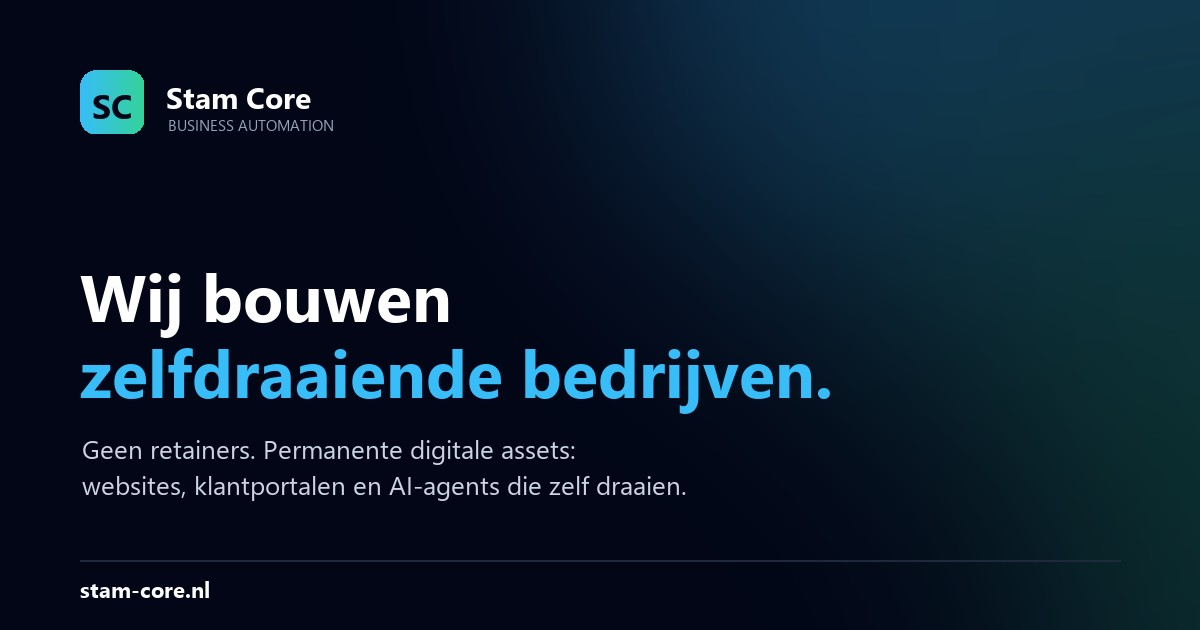
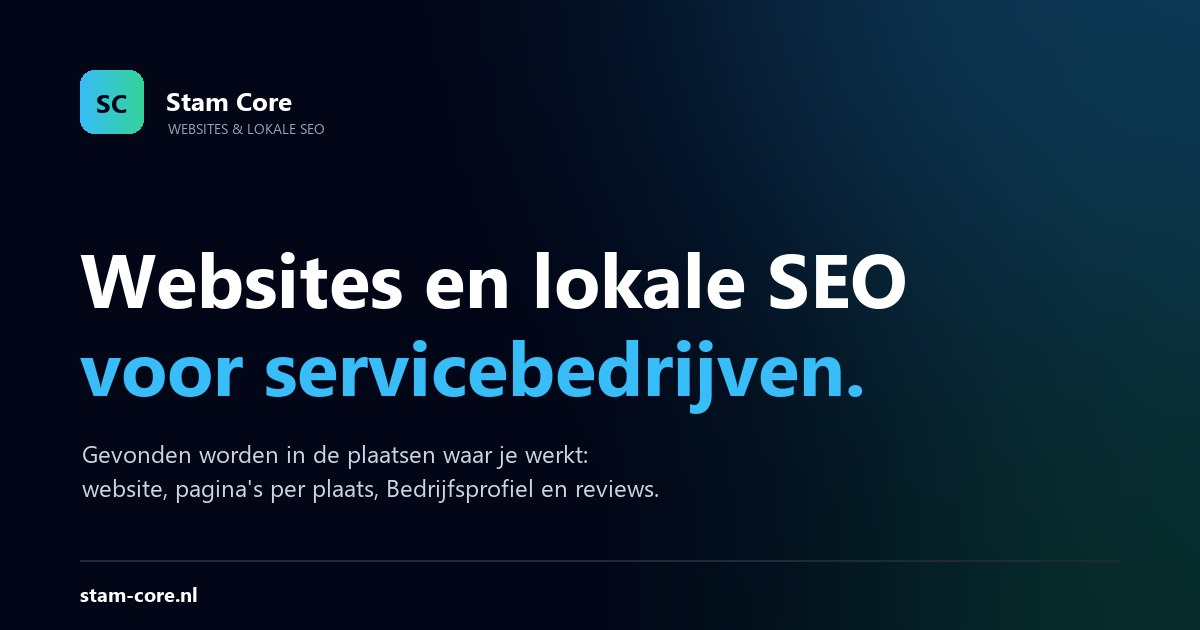
seo: review Tilburg verwerkt
- Geen reviewverzoeken namens klanten: teksten op home, /prijzen,
  /website-glazenwasser en /seo-glazenwasser vervangen door reviewlink,
  QR-code en kant-en-klaar appje
- Tilburg: bedrijventerreinen zonder getal, LocHal sinds 2019, inwoners
  per stadsdeel precies; bronnen per feit in tilburg.json
- FAQ looptijd-zin vervangen door het maandrapport
- OG-afbeelding per stad (seo/scripts/og.py) en nieuwe og-default.jpg
- Regels in SEO-PLAN.md §1 en seo/README.md; check: verboden frasen,
  bronnen verplicht bij getallen, OG-afbeelding verplicht

diff --git a/website-glazenwasser-tilburg.html b/website-glazenwasser-tilburg.html
@@ -18,13 +18,13 @@
 <meta property="og:type" content="website">
 <meta property="og:url" content="https://stam-core.nl/website-glazenwasser-tilburg">
 <meta property="og:locale" content="nl_NL">
-<meta property="og:image" content="https://stam-core.nl/img/og-default.jpg">
+<meta property="og:image" content="https://stam-core.nl/img/og/glazenwasser-tilburg.jpg">
 <meta property="og:image:width" content="1200">
 <meta property="og:image:height" content="630">
 <meta name="twitter:card" content="summary_large_image">
 <meta name="twitter:title" content="Website glazenwasser Tilburg | Stam Core">
 <meta name="twitter:description" content="Glazenwasser in Tilburg? Zo staan de bedrijven bovenaan in Google Maps ervoor, en zo vind je klanten in de Reeshof, Oud-Zuid en Berkel-Enschot.">
-<meta name="twitter:image" content="https://stam-core.nl/img/og-default.jpg">
+<meta name="twitter:image" content="https://stam-core.nl/img/og/glazenwasser-tilburg.jpg">
 
 <script type="application/ld+json">
 {
@@ -241,7 +241,7 @@
     <div class="mx-auto mt-6 max-w-4xl text-center">
       <h1 class="mt-6 font-display text-4xl font-bold leading-[1.05] tracking-tight text-white sm:text-6xl">Glazenwasser in Tilburg? Zo vind je klanten in jouw wijken</h1>
       <div class="mx-auto mt-7 max-w-2xl space-y-4 text-left text-lg leading-relaxed text-slate-300 sm:text-center">
-        <p>Tilburg doe je niet in één ronde. Oud-Zuid, de Reeshof en Oud-Noord hebben elk tussen de 35.000 en 44.000 inwoners, en daarnaast horen Berkel-Enschot, Udenhout en Biezenmortel bij de gemeente. Elk deel vraagt een eigen aanpak.</p>
+        <p>Tilburg doe je niet in één ronde. Oud-Zuid en de Reeshof hebben elk bijna 44.000 inwoners, Oud-Noord bijna 35.000, en daarnaast horen Berkel-Enschot, Udenhout en Biezenmortel bij de gemeente. Elk deel vraagt een eigen aanpak.</p>
         <p>Hieronder zie je hoe de glazenwassers bovenaan in Google Maps er in Tilburg voor staan, en waar de ruimte zit voor jouw bedrijf.</p>
       </div>
       <div class="mt-10 flex flex-col items-center justify-center gap-4 sm:flex-row">
@@ -320,10 +320,10 @@
     <span class="reveal text-sm font-semibold uppercase tracking-[0.18em] text-electric-400">De stad</span>
     <h2 class="reveal mt-4 font-display text-3xl font-bold tracking-tight text-white sm:text-4xl">Wat Tilburg anders maakt</h2>
     <div class="reveal mt-8 space-y-4 text-lg leading-relaxed text-slate-300">
-      <p>Tilburg was in de negentiende eeuw een wolstad: in 1871 stonden er 125 wollenstoffenfabrieken. Het textiel is grotendeels verdwenen, de stad is gebleven en gegroeid. Drie stadsdelen hebben nu elk meer inwoners dan veel Brabantse gemeenten, dus je kunt hier een volle week rijden zonder de stad uit te gaan.</p>
-        <p>Daarnaast is er de nieuwe kant van de stad. In de Spoorzone, het voormalige NS-werkplaatsterrein achter het station, kregen hallen zoals de LocHal sinds 2011 een nieuwe functie. Woontoren Westpoint telt 47 verdiepingen. Hoogbouw en grote glaspartijen vragen om ander materiaal, zoals osmose en een lange telescoopsteel, en vaak heb je dan te maken met een VvE of beheerder in plaats van een bewoner.</p>
+      <p>Tilburg was in de negentiende eeuw een wolstad: in 1871 stonden er 125 wollenstoffenfabrieken. Het textiel is grotendeels verdwenen, maar de stad is groot gebleven. Je kunt hier een volle week rondes rijden zonder de gemeente uit te gaan.</p>
+        <p>Daarnaast is er de nieuwe kant van de stad. De Spoorzone, het voormalige NS-werkplaatsterrein ten noorden van het station, ging in 2011 open voor publiek. In de LocHal, een locomotievenhal uit 1932, zit sinds januari 2019 de bibliotheek. Woontoren Westpoint telt 47 verdiepingen. Hoogbouw en grote glaspartijen vragen om ander materiaal, zoals osmose en een lange telescoopsteel, en vaak heb je dan te maken met een VvE of beheerder in plaats van een bewoner.</p>
         <p>Tilburg is ook een studentenstad, met Tilburg University, Fontys en Avans. Waar veel verhuurd wordt, zijn verhuurders en beheerders een klantgroep, niet alleen de bewoners.</p>
-        <p>En dan de bedrijventerreinen: op Kraaiven, Loven en Vossenberg zitten samen zo'n 7.600 bedrijven. Daar liggen zakelijke rondes met kantoorgevels, showrooms en bedrijfshallen.</p>
+        <p>En dan de bedrijventerreinen: op Kraaiven, Loven en Vossenberg zitten honderden bedrijven. Daar liggen zakelijke rondes met kantoorgevels, showrooms en bedrijfshallen.</p>
         <p>Voor je website betekent dat: een pagina voor particulieren, een voor zakelijk en VvE's, en per dienst (ramen, zonnepanelen, dakgoten) duidelijk in welke delen van Tilburg je werkt.</p>
     </div>
   </div>

diff --git a/seo-glazenwasser.html b/seo-glazenwasser.html
@@ -111,7 +111,7 @@
           "name": "Hoe lang duurt het voordat ik iets merk?",
           "acceptedAnswer": {
             "@type": "Answer",
-            "text": "Een goed ingericht profiel en de eerste pagina's kunnen binnen een paar weken iets doen, maar reken op enkele maanden voordat je het structureel terugziet in aanvragen. Daarom is de minimale looptijd 3 maanden."
+            "text": "Een goed ingericht profiel en de eerste pagina's kunnen binnen een paar weken iets doen, maar reken op enkele maanden voordat je het structureel terugziet in aanvragen. Daarom laat het maandrapport vanaf maand 1 zien wat er gebouwd is en wat er beweegt."
           }
         },
         {
@@ -321,7 +321,7 @@
       <li class="flex gap-3 rounded-xl border border-white/5 bg-slate-900/40 px-5 py-4"><span class="text-emerald-400">&check;</span><span class="text-slate-300">Reageren op elke review, ook op de korte. Nieuwe klanten lezen dat mee.</span></li>
       <li class="flex gap-3 rounded-xl border border-white/5 bg-slate-900/40 px-5 py-4"><span class="text-emerald-400">&check;</span><span class="text-slate-300">Begin bij vaste klanten die al jaren tevreden zijn. Die zeggen het makkelijkst ja en schrijven de beste reviews.</span></li>
     </ul>
-    <p class="reveal mt-6 text-lg leading-relaxed text-slate-300">Bij de website krijg je één vaste review-link met QR-code. In het lokale-SEO-pakket stuur ik daarnaast de reviewverzoeken naar je klanten, zodat het niet afhangt van of jij er na een lange dag nog aan denkt.</p>
+    <p class="reveal mt-6 text-lg leading-relaxed text-slate-300">Bij de website krijg je één vaste review-link met QR-code. Je krijgt er ook een kant-en-klaar appje bij met je review-link, zodat vragen om een review na de ronde één tik is.</p>
   </div>
 </section>
 
@@ -351,7 +351,7 @@
           <li class="flex gap-3"><span class="text-emerald-400">+</span><span>Tot 5 nieuwe pagina's per dienst en plaats, met tekst die echt over die plaats gaat</span></li>
           <li class="flex gap-3"><span class="text-emerald-400">+</span><span>Posts op je Bedrijfsprofiel</span></li>
           <li class="flex gap-3"><span class="text-emerald-400">+</span><span>Je Bedrijfsprofiel bijgehouden: diensten, foto's, werkgebied</span></li>
-          <li class="flex gap-3"><span class="text-emerald-400">+</span><span>Reviewverzoeken naar je klanten</span></li>
+          <li class="flex gap-3"><span class="text-emerald-400">+</span><span>Reviewlink, QR-code en een kant-en-klaar appje dat je na de ronde zelf verstuurt</span></li>
           <li class="flex gap-3"><span class="text-emerald-400">+</span><span>Een maandrapport: wat er gedaan is en hoe je ervoor staat</span></li>
         </ul>
       </div>
@@ -398,7 +398,7 @@
       </div>
       <div class="reveal rounded-2xl border border-white/5 bg-slate-900/40 p-6">
         <h3 class="font-display text-lg font-semibold text-white">Hoe lang duurt het voordat ik iets merk?</h3>
-        <p class="mt-2 text-slate-400">Een goed ingericht profiel en de eerste pagina's kunnen binnen een paar weken iets doen, maar reken op enkele maanden voordat je het structureel terugziet in aanvragen. Daarom is de minimale looptijd 3 maanden.</p>
+        <p class="mt-2 text-slate-400">Een goed ingericht profiel en de eerste pagina's kunnen binnen een paar weken iets doen, maar reken op enkele maanden voordat je het structureel terugziet in aanvragen. Daarom laat het maandrapport vanaf maand 1 zien wat er gebouwd is en wat er beweegt.</p>
       </div>
       <div class="reveal rounded-2xl border border-white/5 bg-slate-900/40 p-6">
         <h3 class="font-display text-lg font-semibold text-white">Ik heb al een website. Kan lokale SEO daar ook op?</h3>

diff --git a/prijzen.html b/prijzen.html
@@ -56,7 +56,7 @@
           "@type": "Offer",
           "@id": "https://stam-core.nl/prijzen#lokale-seo",
           "name": "Lokale SEO",
-          "description": "Doorlopend: nieuwe pagina's per dienst en plaats, posts en onderhoud van het Google Bedrijfsprofiel, reviewverzoeken en een maandrapport. Minimaal 3 maanden, daarna maandelijks opzegbaar.",
+          "description": "Doorlopend: nieuwe pagina's per dienst en plaats, posts en onderhoud van het Google Bedrijfsprofiel, een reviewlink met QR-code en een kant-en-klaar appje, en een maandrapport. Minimaal 3 maanden, daarna maandelijks opzegbaar.",
           "priceCurrency": "EUR",
           "price": "199",
           "priceSpecification": { "@type": "UnitPriceSpecification", "price": "199", "priceCurrency": "EUR", "unitCode": "MON", "unitText": "per maand" },
@@ -241,7 +241,7 @@
           <li class="flex gap-3"><span class="text-emerald-400">+</span><span><strong class="text-white">Nieuwe lokale pagina's</strong> per dienst &times; plaats — 5 per maand</span></li>
           <li class="flex gap-3"><span class="text-emerald-400">+</span><span><strong class="text-white">Posts op je Bedrijfsprofiel</strong> — zodat je profiel actief blijft.</span></li>
           <li class="flex gap-3"><span class="text-emerald-400">+</span><span><strong class="text-white">Bedrijfsprofiel-onderhoud</strong> — diensten, foto's, werkgebied en openingstijden actueel.</span></li>
-          <li class="flex gap-3"><span class="text-emerald-400">+</span><span><strong class="text-white">Reviewverzoeken</strong> — je klanten krijgen een verzoek om een review achter te laten.</span></li>
+          <li class="flex gap-3"><span class="text-emerald-400">+</span><span><strong class="text-white">Reviewlink, QR-code en een kant-en-klaar appje</strong> dat je na de ronde zelf verstuurt.</span></li>
           <li class="flex gap-3"><span class="text-emerald-400">+</span><span><strong class="text-white">Maandrapport</strong> — wat er gebouwd is, hoe je ervoor staat en wat het oplevert.</span></li>
         </ul>
       </div>
@@ -271,7 +271,7 @@
     <div class="reveal mt-6 space-y-4 text-lg leading-relaxed text-slate-300">
       <p>Je kent ze wel: bureaus die elke maand factureren voor een paar lege posts en wat klikjes via Google Ads. Stop je met betalen, dan is er niets meer. Je hebt al die tijd gehuurd.</p>
       <p>Bij Stam Core werkt het andersom. <strong class="text-white">Het fundament is van jou:</strong> je website, je domein, je teksten en alle pagina's. Ook als je stopt.</p>
-      <p><strong class="text-white">Het maandbedrag is groeiwerk.</strong> Elke maand komen er nieuwe pagina's bij voor de diensten en plaatsen waar je gevonden wilt worden, houden we je Bedrijfsprofiel bij, vragen we je klanten om reviews en krijg je een rapport van wat er is gebeurd. Wat we bouwen blijft staan — dus elke maand staat er meer.</p>
+      <p><strong class="text-white">Het maandbedrag is groeiwerk.</strong> Elke maand komen er nieuwe pagina's bij voor de diensten en plaatsen waar je gevonden wilt worden, houden we je Bedrijfsprofiel bij, krijg je een kant-en-klaar appje om zelf om reviews te vragen en krijg je een rapport van wat er is gebeurd. Wat we bouwen blijft staan — dus elke maand staat er meer.</p>
     </div>
   </div>
 </section>

diff --git a/seo/templates/seo-pijler.html b/seo/templates/seo-pijler.html
@@ -141,7 +141,7 @@
       <li class="flex gap-3 rounded-xl border border-white/5 bg-slate-900/40 px-5 py-4"><span class="text-emerald-400">&check;</span><span class="text-slate-300">Reageren op elke review, ook op de korte. Nieuwe klanten lezen dat mee.</span></li>
       <li class="flex gap-3 rounded-xl border border-white/5 bg-slate-900/40 px-5 py-4"><span class="text-emerald-400">&check;</span><span class="text-slate-300">Begin bij vaste klanten die al jaren tevreden zijn. Die zeggen het makkelijkst ja en schrijven de beste reviews.</span></li>
     </ul>
-    <p class="reveal mt-6 text-lg leading-relaxed text-slate-300">Bij de website krijg je één vaste review-link met QR-code. In het lokale-SEO-pakket stuur ik daarnaast de reviewverzoeken naar je klanten, zodat het niet afhangt van of jij er na een lange dag nog aan denkt.</p>
+    <p class="reveal mt-6 text-lg leading-relaxed text-slate-300">Bij de website krijg je één vaste review-link met QR-code. Je krijgt er ook een kant-en-klaar appje bij met je review-link, zodat vragen om een review na de ronde één tik is.</p>
   </div>
 </section>
 
@@ -171,7 +171,7 @@
           <li class="flex gap-3"><span class="text-emerald-400">+</span><span>{{seoPaginasHoofdletter}} nieuwe pagina's per dienst en plaats, met tekst die echt over die plaats gaat</span></li>
           <li class="flex gap-3"><span class="text-emerald-400">+</span><span>Posts op je Bedrijfsprofiel</span></li>
           <li class="flex gap-3"><span class="text-emerald-400">+</span><span>Je Bedrijfsprofiel bijgehouden: diensten, foto's, werkgebied</span></li>
-          <li class="flex gap-3"><span class="text-emerald-400">+</span><span>Reviewverzoeken naar je klanten</span></li>
+          <li class="flex gap-3"><span class="text-emerald-400">+</span><span>Reviewlink, QR-code en een kant-en-klaar appje dat je na de ronde zelf verstuurt</span></li>
           <li class="flex gap-3"><span class="text-emerald-400">+</span><span>Een maandrapport: wat er gedaan is en hoe je ervoor staat</span></li>
         </ul>
       </div>

diff --git a/index.html b/index.html
@@ -329,7 +329,7 @@
         </div>
         <h3 class="mt-6 font-display text-xl font-bold text-white">Reviewmotor</h3>
         <p class="mt-1 text-sm font-medium text-emerald-400">Vertrouwen dat groeit</p>
-        <p class="mt-3 flex-1 text-slate-400">Na elke klus een reviewverzoek via een vaste link of QR-code. Reviews zijn het eerste wat een klant in Maps ziet — en ze tellen mee in hoe Google je toont.</p>
+        <p class="mt-3 flex-1 text-slate-400">Na elke klus vraag jij om een review, via een vaste link of QR-code. Reviews zijn het eerste wat een klant in Maps ziet — en ze tellen mee in hoe Google je toont.</p>
       </li>
     </ol>
   </div>
@@ -377,7 +377,7 @@
           <li class="flex gap-3"><span class="text-emerald-400">+</span><span>Tot 5 nieuwe pagina's per dienst &times; plaats</span></li>
           <li class="flex gap-3"><span class="text-emerald-400">+</span><span>Posts op je Bedrijfsprofiel</span></li>
           <li class="flex gap-3"><span class="text-emerald-400">+</span><span>Bedrijfsprofiel bijgehouden: diensten, foto's, werkgebied</span></li>
-          <li class="flex gap-3"><span class="text-emerald-400">+</span><span>Reviewverzoeken naar je klanten</span></li>
+          <li class="flex gap-3"><span class="text-emerald-400">+</span><span>Reviewlink, QR-code en een kant-en-klaar appje dat je na de ronde zelf verstuurt</span></li>
           <li class="flex gap-3"><span class="text-emerald-400">+</span><span>Maandrapport: wat er gebouwd is en wat het oplevert</span></li>
         </ul>
       </div>

diff --git a/website-glazenwasser.html b/website-glazenwasser.html
@@ -322,7 +322,7 @@
         <h3 class="font-display text-2xl font-bold text-white">Lokale SEO</h3>
         <p class="mt-3 font-display text-4xl font-bold text-white">€199 <span class="text-base font-semibold text-slate-400">per maand</span></p>
         <p class="mt-1 text-slate-300">na 3 maanden maandelijks opzegbaar</p>
-        <p class="mt-4 text-slate-200">Elke maand tot 5 nieuwe pagina's voor de plaatsen en diensten waar je wilt groeien, posts en onderhoud op je Bedrijfsprofiel, reviewverzoeken en een maandrapport.</p>
+        <p class="mt-4 text-slate-200">Elke maand tot 5 nieuwe pagina's voor de plaatsen en diensten waar je wilt groeien, posts en onderhoud op je Bedrijfsprofiel, een reviewlink met QR-code en een kant-en-klaar appje, en een maandrapport.</p>
         <a href="/seo-glazenwasser" class="mt-5 inline-flex items-center gap-1 text-sm font-semibold text-electric-400 transition hover:gap-2 hover:text-white">Hoe lokale SEO voor glazenwassers werkt &rarr;</a>
       </div>
     </div>

diff --git a/seo/scripts/og.py b/seo/scripts/og.py
@@ -1,0 +1,95 @@
+"""OG-afbeeldingen (1200x630) in de huisstijl, met Pillow.
+
+  python seo/scripts/og.py                  -> img/og-default.jpg + een afbeelding per stad in seo/cities/
+  python seo/scripts/og.py tilburg eindhoven -> alleen deze steden
+
+Per stad: img/og/{niche}-{slug}.jpg met "Glazenwasser in {Stad} — Maps-scan".
+build.mjs roept dit script zelf aan als de afbeelding van een stad ontbreekt.
+Lettertype: Segoe UI (Windows), net als de eerdere og-default.jpg.
+"""
+import json
+import sys
+from pathlib import Path
+
+from PIL import Image, ImageDraw, ImageFilter, ImageFont
+
+ROOT = Path(__file__).resolve().parents[2]
+W, H = 1200, 630
+FONTS = Path("C:/Windows/Fonts")
+BG = (2, 6, 23)            # #020617
+WHITE = (255, 255, 255)
+ELECTRIC = (56, 189, 248)  # electric-400
+EMERALD = (52, 211, 153)   # emerald-400
+MUTED = (203, 213, 225)    # slate-300
+DIM = (148, 163, 184)      # slate-400
+
+
+def font(name, size):
+    return ImageFont.truetype(str(FONTS / name), size)
+
+
+def base():
+    img = Image.new("RGB", (W, H), BG)
+    glow = Image.new("RGB", (W, H), BG)
+    g = ImageDraw.Draw(glow)
+    g.ellipse((700, -350, 1500, 350), fill=(14, 60, 90))
+    g.ellipse((850, 300, 1450, 800), fill=(8, 50, 45))
+    img = Image.blend(img, glow.filter(ImageFilter.GaussianBlur(160)), 0.9)
+    d = ImageDraw.Draw(img)
+    # Logo: afgerond vierkant met verloop elektrisch -> smaragd
+    logo = Image.new("RGB", (64, 64))
+    ld = ImageDraw.Draw(logo)
+    for i in range(64):
+        t = i / 63
+        ld.line([(i, 0), (i, 63)], fill=tuple(int(ELECTRIC[k] + (EMERALD[k] - ELECTRIC[k]) * t) for k in range(3)))
+    mask = Image.new("L", (64, 64), 0)
+    ImageDraw.Draw(mask).rounded_rectangle((0, 0, 63, 63), radius=14, fill=255)
+    img.paste(logo, (80, 70), mask)
+    d.text((112, 102), "SC", font=font("segoeuib.ttf", 26), fill=BG, anchor="mm")
+    d.text((166, 82), "Stam Core", font=font("segoeuib.ttf", 26), fill=WHITE)
+    d.text((168, 118), "WEBSITES & LOKALE SEO", font=font("segoeui.ttf", 14), fill=DIM)
+    d.line([(80, 560), (1120, 560)], fill=(30, 41, 59), width=2)
+    d.text((80, 580), "stam-core.nl", font=font("segoeuib.ttf", 20), fill=WHITE)
+    return img, d
+
+
+def fit(d, text, name, start, max_w):
+    size = start
+    while size > 40 and d.textlength(text, font=font(name, size)) > max_w:
+        size -= 2
+    return font(name, size)
+
+
+def render(line1, line2, sub, out):
+    img, d = base()
+    f1 = fit(d, line1, "segoeuib.ttf", 76, 1040)
+    f2 = fit(d, line2, "segoeuib.ttf", 76, 1040)
+    top = 225
+    d.text((80, top), line1, font=f1, fill=WHITE)
+    d.text((80, top + f1.size + 12), line2, font=f2, fill=ELECTRIC)
+    y = top + f1.size + 12 + f2.size + 48
+    for i, s in enumerate(sub):
+        d.text((82, y + i * 34), s, font=font("segoeui.ttf", 24), fill=MUTED)
+    out.parent.mkdir(parents=True, exist_ok=True)
+    img.save(out, "JPEG", quality=88, optimize=True, progressive=True)
+    print(f"  og: {out.relative_to(ROOT).as_posix()}")
+
+
+def main(slugs):
+    if not slugs:
+        render("Websites en lokale SEO", "voor servicebedrijven.",
+               ["Gevonden worden in de plaatsen waar je werkt:", "website, pagina's per plaats, Bedrijfsprofiel en reviews."],
+               ROOT / "img" / "og-default.jpg")
+    for f in sorted((ROOT / "seo" / "cities").glob("*.json")):
+        c = json.loads(f.read_text(encoding="utf-8"))
+        if slugs and c["slug"] not in slugs:
+            continue
+        niche = json.loads((ROOT / "seo" / "niches" / f"{c['niche']}.json").read_text(encoding="utf-8"))
+        word = niche["enkelvoud"].capitalize()
+        render(f"{word} in {c['stad']}", "— Maps-scan",
+               [f"Zo staan de {niche['meervoud']} bovenaan in Google Maps ervoor,", "en waar de ruimte zit voor jouw bedrijf."],
+               ROOT / "img" / "og" / f"{c['niche']}-{c['slug']}.jpg")
+
+
+if __name__ == "__main__":
+    main(sys.argv[1:])

diff --git a/seo/README.md b/seo/README.md
@@ -92,10 +92,17 @@ Markdown: `##`/`###`, alinea's, `-` lijsten, `1.` stappen, `- [ ]` checklist, `*
 
 Let op: `_redirects` stuurt `/kennis` en `/kennis/` (alleen die twee) tijdelijk door naar `/`. Artikelen op `/kennis/{slug}` werken gewoon.
 
+## Vaste regels
+
+- **Stam Core verstuurt nooit zelf reviewverzoeken naar klanten van klanten; de klant verstuurt ze zelf.** Wij leveren een reviewlink, QR-code en een kant-en-klaar appje. De check faalt op "reviewverzoeken naar je klanten", "stuur ik de reviewverzoeken" en "vragen we je klanten om reviews".
+- **Elk getal en elk historisch of feitelijk gegeven in een stadspagina heeft een bron in het JSON-bestand van die stad**, als `{ "feit": "…", "bron": "https://…" }` in `bronnen`. De check faalt als een stadspagina getallen bevat terwijl `bronnen` leeg is. Een script ziet niet of elk feit gedekt is: noteer per feit een bron, en laat weg wat je niet kunt verifiëren.
+- **OG-afbeelding per stad:** `img/og/{niche}-{slug}.jpg` (1200×630), gemaakt door `seo/scripts/og.py` (Python + Pillow, lettertype Segoe UI). `seo:build` maakt hem aan als hij ontbreekt; de check faalt zonder. `python seo/scripts/og.py` zonder argumenten maakt ook `img/og-default.jpg` opnieuw.
+
 ## Review-afspraken
 
 Wat Jeannot bij reviews heeft besloten. Dit geldt voor alle volgende pagina's.
 
 - **2026-10-24:** `/seo-glazenwasser` en Tilburg zonder wijzigingen goedgekeurd. De opbouw en toon van [`cities/tilburg.json`](cities/tilburg.json) zijn het template voor alle volgende stadspagina's. Tilburg gaat pas live zodra `scans/tilburg.csv` er is.
+- **2026-10-24 (review Jeannot):** reviewverzoek-teksten site-breed vervangen door "reviewlink, QR-code en kant-en-klaar appje"; Tilburg-feiten gecorrigeerd met bronnen (bedrijventerreinen zonder getal, LocHal sinds 2019); looptijd-zin in de FAQ vervangen door het maandrapport; OG-afbeelding per stad.
 - **2026-10-24:** Indexering: nieuwe pagina's komen via `sitemap.xml` en de links op de pijler vanzelf bij Google. Daarnaast vraagt Claude **per 5 nieuwe live pagina's** in Search Console "Indexering aanvragen" aan, in het browserpaneel, nadat Jeannot daar zelf heeft ingelogd. Houd in `LOG.md` bij welke URL's al zijn aangevraagd (kolom Indexering).
 - **2026-10-24:** Claude doet de Maps-scan zelf via de browser. Kolommen `posts_laatste_30d` en `fotos_eigen_werk` vervangen door `reageert_op_reviews` en `fotos`, omdat posts en eigen-vs-klantfoto's niet zichtbaar zijn zonder in te loggen. Gesponsorde resultaten tellen niet mee.

diff --git a/SEO-PLAN.md b/SEO-PLAN.md
@@ -35,7 +35,9 @@ Reken op 2–4 maanden voordat er structureel organisch verkeer is.
 6. **Geen dunne duplicaten.** Elke stadspagina moet de kwaliteitscheck (§6) halen, anders wordt hij niet gepubliceerd.
 7. **Uitgesloten steden** (eigen werkgebied en klantregio): Oosterhout, Breda, Dongen, Geertruidenberg, Drimmelen, Etten-Leur, Gilze en Rijen, Amersfoort (en kernen daarbinnen). Maak voor deze plaatsen nooit een stadspagina, tenzij Jeannot dit expliciet wijzigt in `seo/config.json`.
 8. **Prijzen en voorwaarden** altijd uit `seo/config.json`, nooit hardcoded in teksten: website €350 eenmalig + €300/jaar; lokale SEO €199/maand, minimaal 3 maanden, daarna maandelijks opzegbaar met 1 maand opzegtermijn; alle bedragen excl. btw.
-9. Toon: Nederlands, direct, van ondernemer tot ondernemer, vakjargon van glazenwassers mag (rondes, osmose, telescoopsteel, frequentie). Geen bureau-taal.
+9. **Reviews:** Stam Core verstuurt nooit zelf reviewverzoeken naar klanten van klanten; de klant verstuurt ze zelf. Wat we leveren: een vaste reviewlink, een QR-code en een kant-en-klaar appje dat de klant na de ronde zelf verstuurt. *(toegevoegd 2026-10-24)*
+10. **Bronnen:** elk getal en elk historisch of feitelijk gegeven in een stadspagina heeft een bron in het JSON-bestand van die stad (`bronnen`: `{ "feit", "bron" }`). Geen bron = weglaten. *(toegevoegd 2026-10-24)*
+11. Toon: Nederlands, direct, van ondernemer tot ondernemer, vakjargon van glazenwassers mag (rondes, osmose, telescoopsteel, frequentie). Geen bureau-taal.
 
 ---
 

diff --git a/seo/LOG.md b/seo/LOG.md
@@ -6,6 +6,7 @@
 | 2026-10-24 | Review: beide pagina's goedgekeurd; gecommit op branch `seo-glazenwasser` (niet op main) | | |
 | 2026-10-24 | Maps-scan Tilburg zelf gedaan via browser; scanformaat aangepast (reageert_op_reviews, fotos) | | |
 | 2026-10-24 | Tilburg live; /seo-glazenwasser live | https://stam-core.nl/website-glazenwasser-tilburg · https://stam-core.nl/seo-glazenwasser | seo: stadspagina tilburg |
+| 2026-10-24 | Review Tilburg verwerkt: reviewverzoek-teksten site-breed, feiten met bronnen, looptijd-zin, OG-afbeelding per stad, nieuwe og-default | https://stam-core.nl/website-glazenwasser-tilburg | seo: review Tilburg verwerkt |
 
 ## Indexering aangevraagd (Search Console)
 

diff --git a/seo/QUEUE.md b/seo/QUEUE.md
@@ -7,7 +7,7 @@ Claude pakt bij "maak de volgende stadspagina" de bovenste stad die nog niet liv
 
 | Type | Slug | Status | Datum |
 |---|---|---|---|
-| stad | tilburg | live | 2026-10-24 |
+| stad | tilburg | live (review verwerkt) | 2026-10-24 |
 | stad | eindhoven | klaar-voor-bouw | |
 | stad | s-hertogenbosch | klaar-voor-bouw | |
 | stad | helmond | klaar-voor-bouw | |
